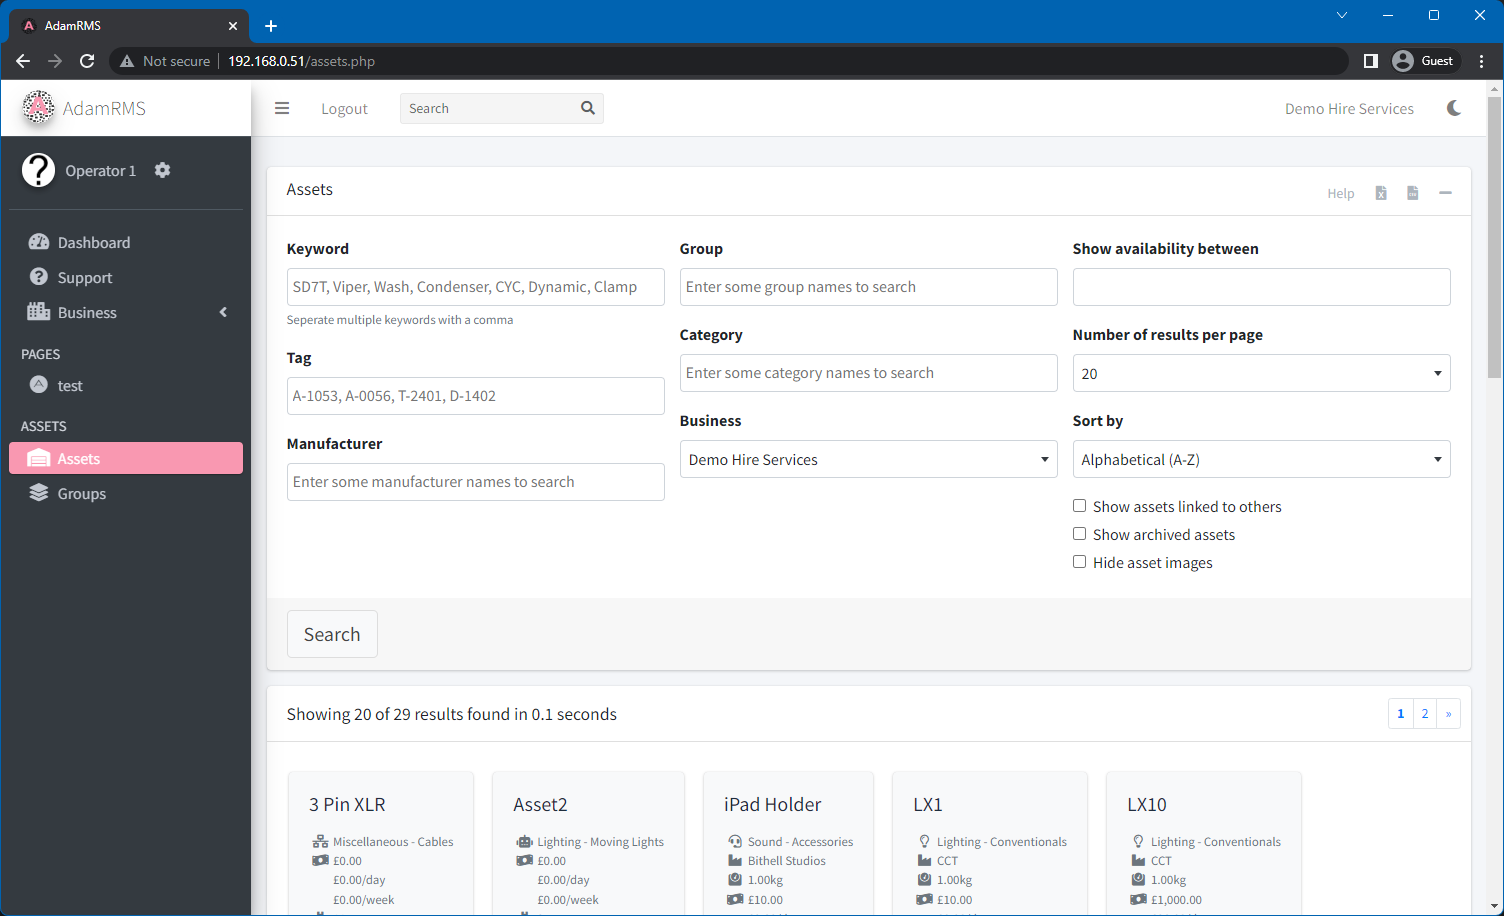
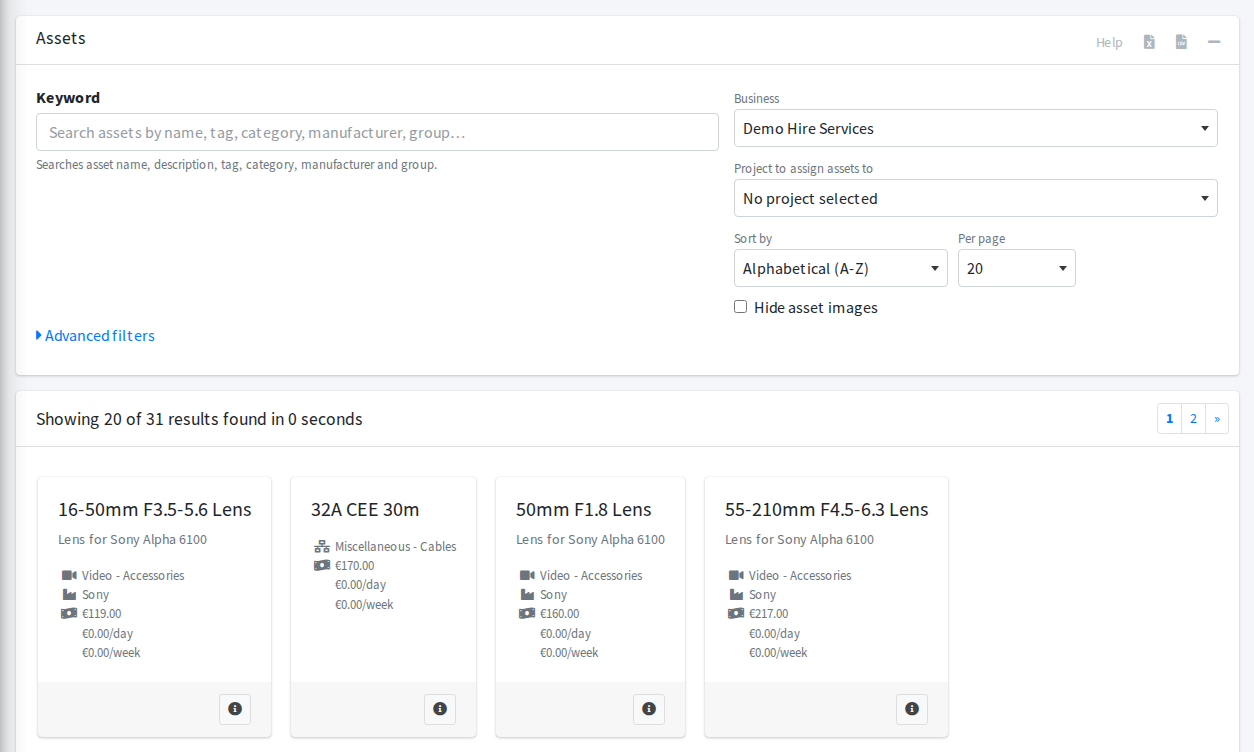
Carry old keyword[] links into the keyword box, and update the search screenshot
An old assets.php?keyword[]=... link was searched by the original keyword
branch on the first load, but the first instant search sent simple=1 without
keyword[], so the keyword was silently dropped. Such links are now moved into
the keyword box on the server, so the box shows the keyword and every later
search keeps it. The old OR-keyword branch is no longer reachable and is
removed.

Replace the Finding Assets screenshot, which still showed the old filter grid.

Claude-Session: https://claude.ai/code/session_01VgNSw1HqyMm4MK1WYVJR6Y

diff --git a/e2e/authenticated/asset-search.spec.ts b/e2e/authenticated/asset-search.spec.ts
@@ -48,6 +48,22 @@ test("the keyword box searches as you type, without reloading the page", async (
   expect(await page.evaluate(() => (window as any).notReloaded)).toBe(true);
 });
 
+test("an old keyword[] link fills the keyword box, and later searches keep it", async ({ page, asA, tenants: { a } }) => {
+  const { stamp, alpha, beta } = await twoTypes(asA, a);
+  await page.goto(`/assets.php?keyword[]=${encodeURIComponent(`${stamp} Alpha`)}`);
+  await expect(page.locator("#assetSearchSimpleKeyword")).toHaveValue(`${stamp} Alpha`);
+  const results = page.locator("#assetSearchResults");
+  await expect(results).toContainText(alpha.name);
+  await expect(results).not.toContainText(beta.name);
+
+  // Any change searches again without a page load, still with the keyword
+  await page.locator("#assetSearchSort").selectOption("alphabet-d", { force: true });
+  await expect.poll(() => new URL(page.url()).searchParams.get("sort")).toBe("alphabet-d");
+  await expect(results).toContainText(alpha.name);
+  await expect(results).not.toContainText(beta.name);
+  expect(new URL(page.url()).searchParams.get("simple_keyword")).toBe(`${stamp} Alpha`);
+});
+
 test("advanced filters in the link start open, and hiding them clears them", async ({ page, asA, tenants: { a } }) => {
   const { stamp, alpha, beta } = await twoTypes(asA, a);
   await page.goto(`/assets.php?simple=1&simple_keyword=${stamp}&tags[]=${encodeURIComponent(alpha.tag)}`);

diff --git a/src/assets.php b/src/assets.php
@@ -42,6 +42,12 @@ $SEARCH = [
       "GROUPS" => [],
     ]
 ];
+// Links from before the keyword box (keyword[]=...) are carried over into it, so the box
+// shows the keywords and every instant search after the first page keeps them.
+if (!$SEARCH['SIMPLE'] and count($SEARCH['TERMS']['KEYWORDS']) > 0) {
+    $SEARCH['SIMPLE'] = true;
+    $SEARCH['SIMPLE_KEYWORD'] = trim(implode(' ', array_filter($SEARCH['TERMS']['KEYWORDS'], 'is_string')));
+}
 $RETURN = [
     "PAGINATION" => [
         "PAGE" => $SEARCH['PAGE']
@@ -185,18 +191,6 @@ if ($SEARCH['SIMPLE']) {
             $DBLIB->where('(' . implode(' AND ', $andClauses) . ')', $allValues);
         }
     }
-} elseif (count($SEARCH['TERMS']['KEYWORDS']) > 0) {
-    $thisWhere = false;
-    $thisValues = [];
-    foreach ($SEARCH['TERMS']['KEYWORDS'] as $word) {
-        if ($word != null) {
-            if ($thisWhere != false) $thisWhere .= ' OR ';
-            else $thisWhere = "(";
-            $thisWhere .= "manufacturers.manufacturers_name LIKE ? OR assetTypes.assetTypes_description LIKE ? OR assetTypes.assetTypes_name LIKE ?";
-            array_push($thisValues,'%' . $word . '%','%' . $word . '%','%' . $word . '%');
-        }
-    }
-    $DBLIB->where($thisWhere . ")",$thisValues);
 }
 
 
